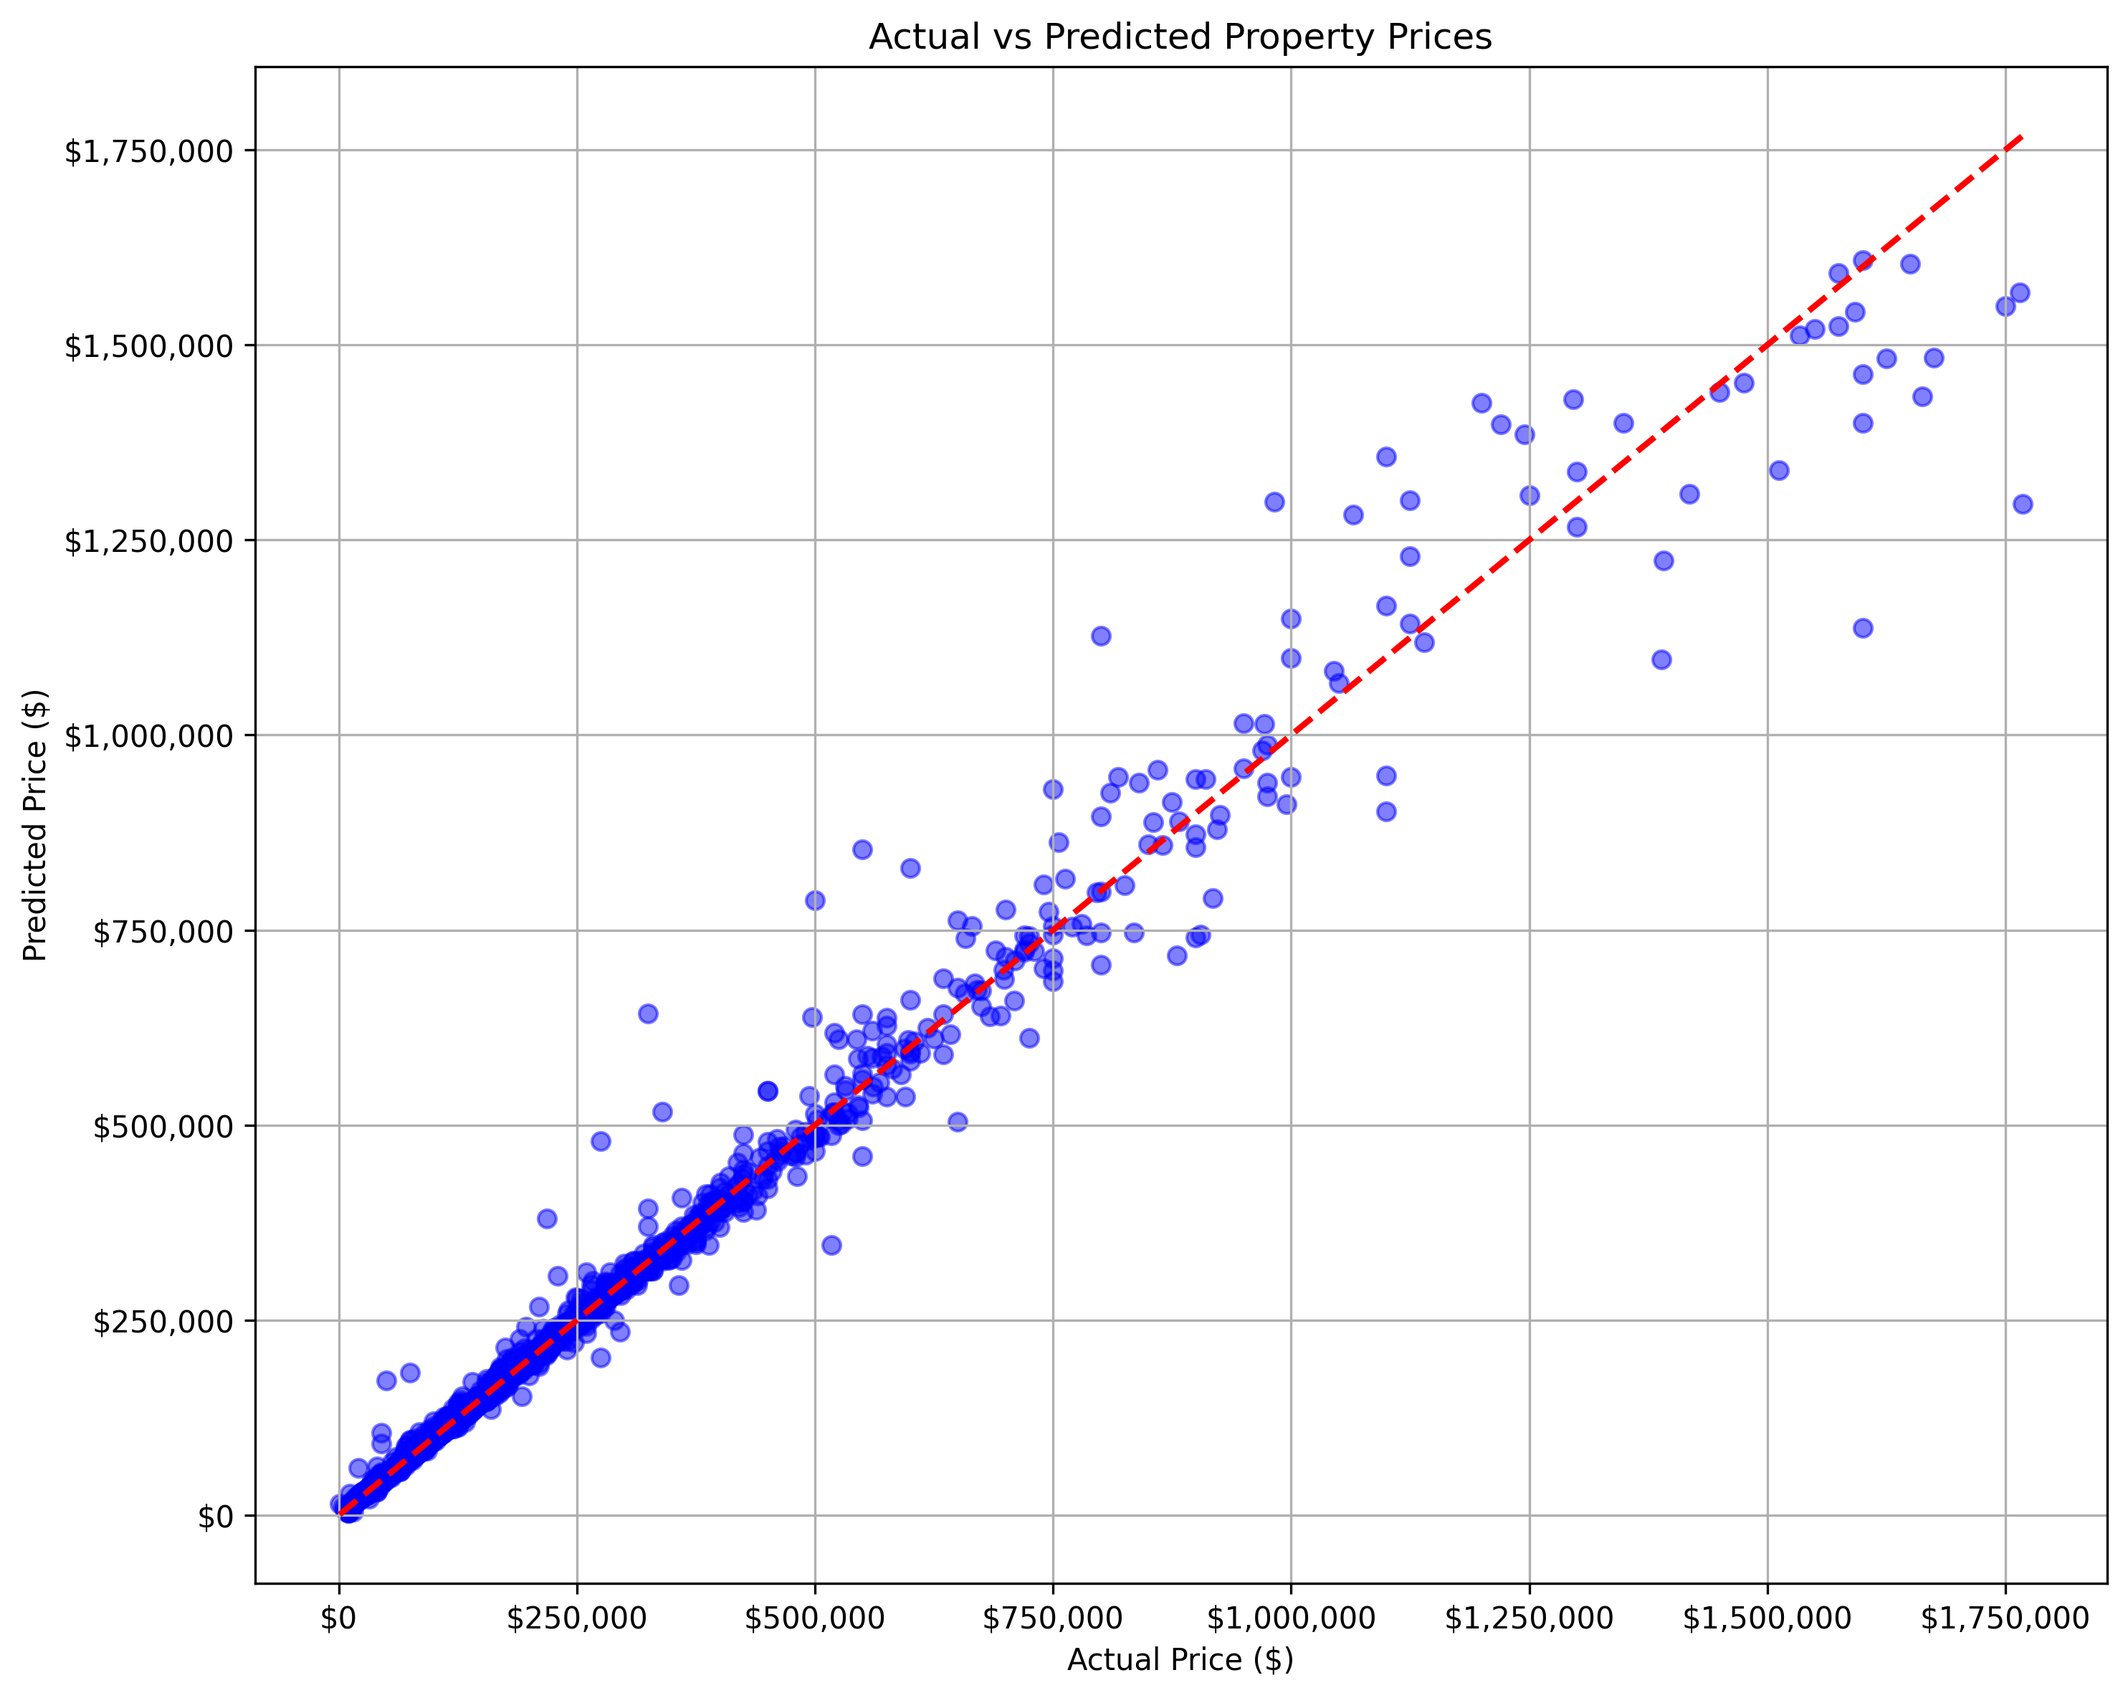
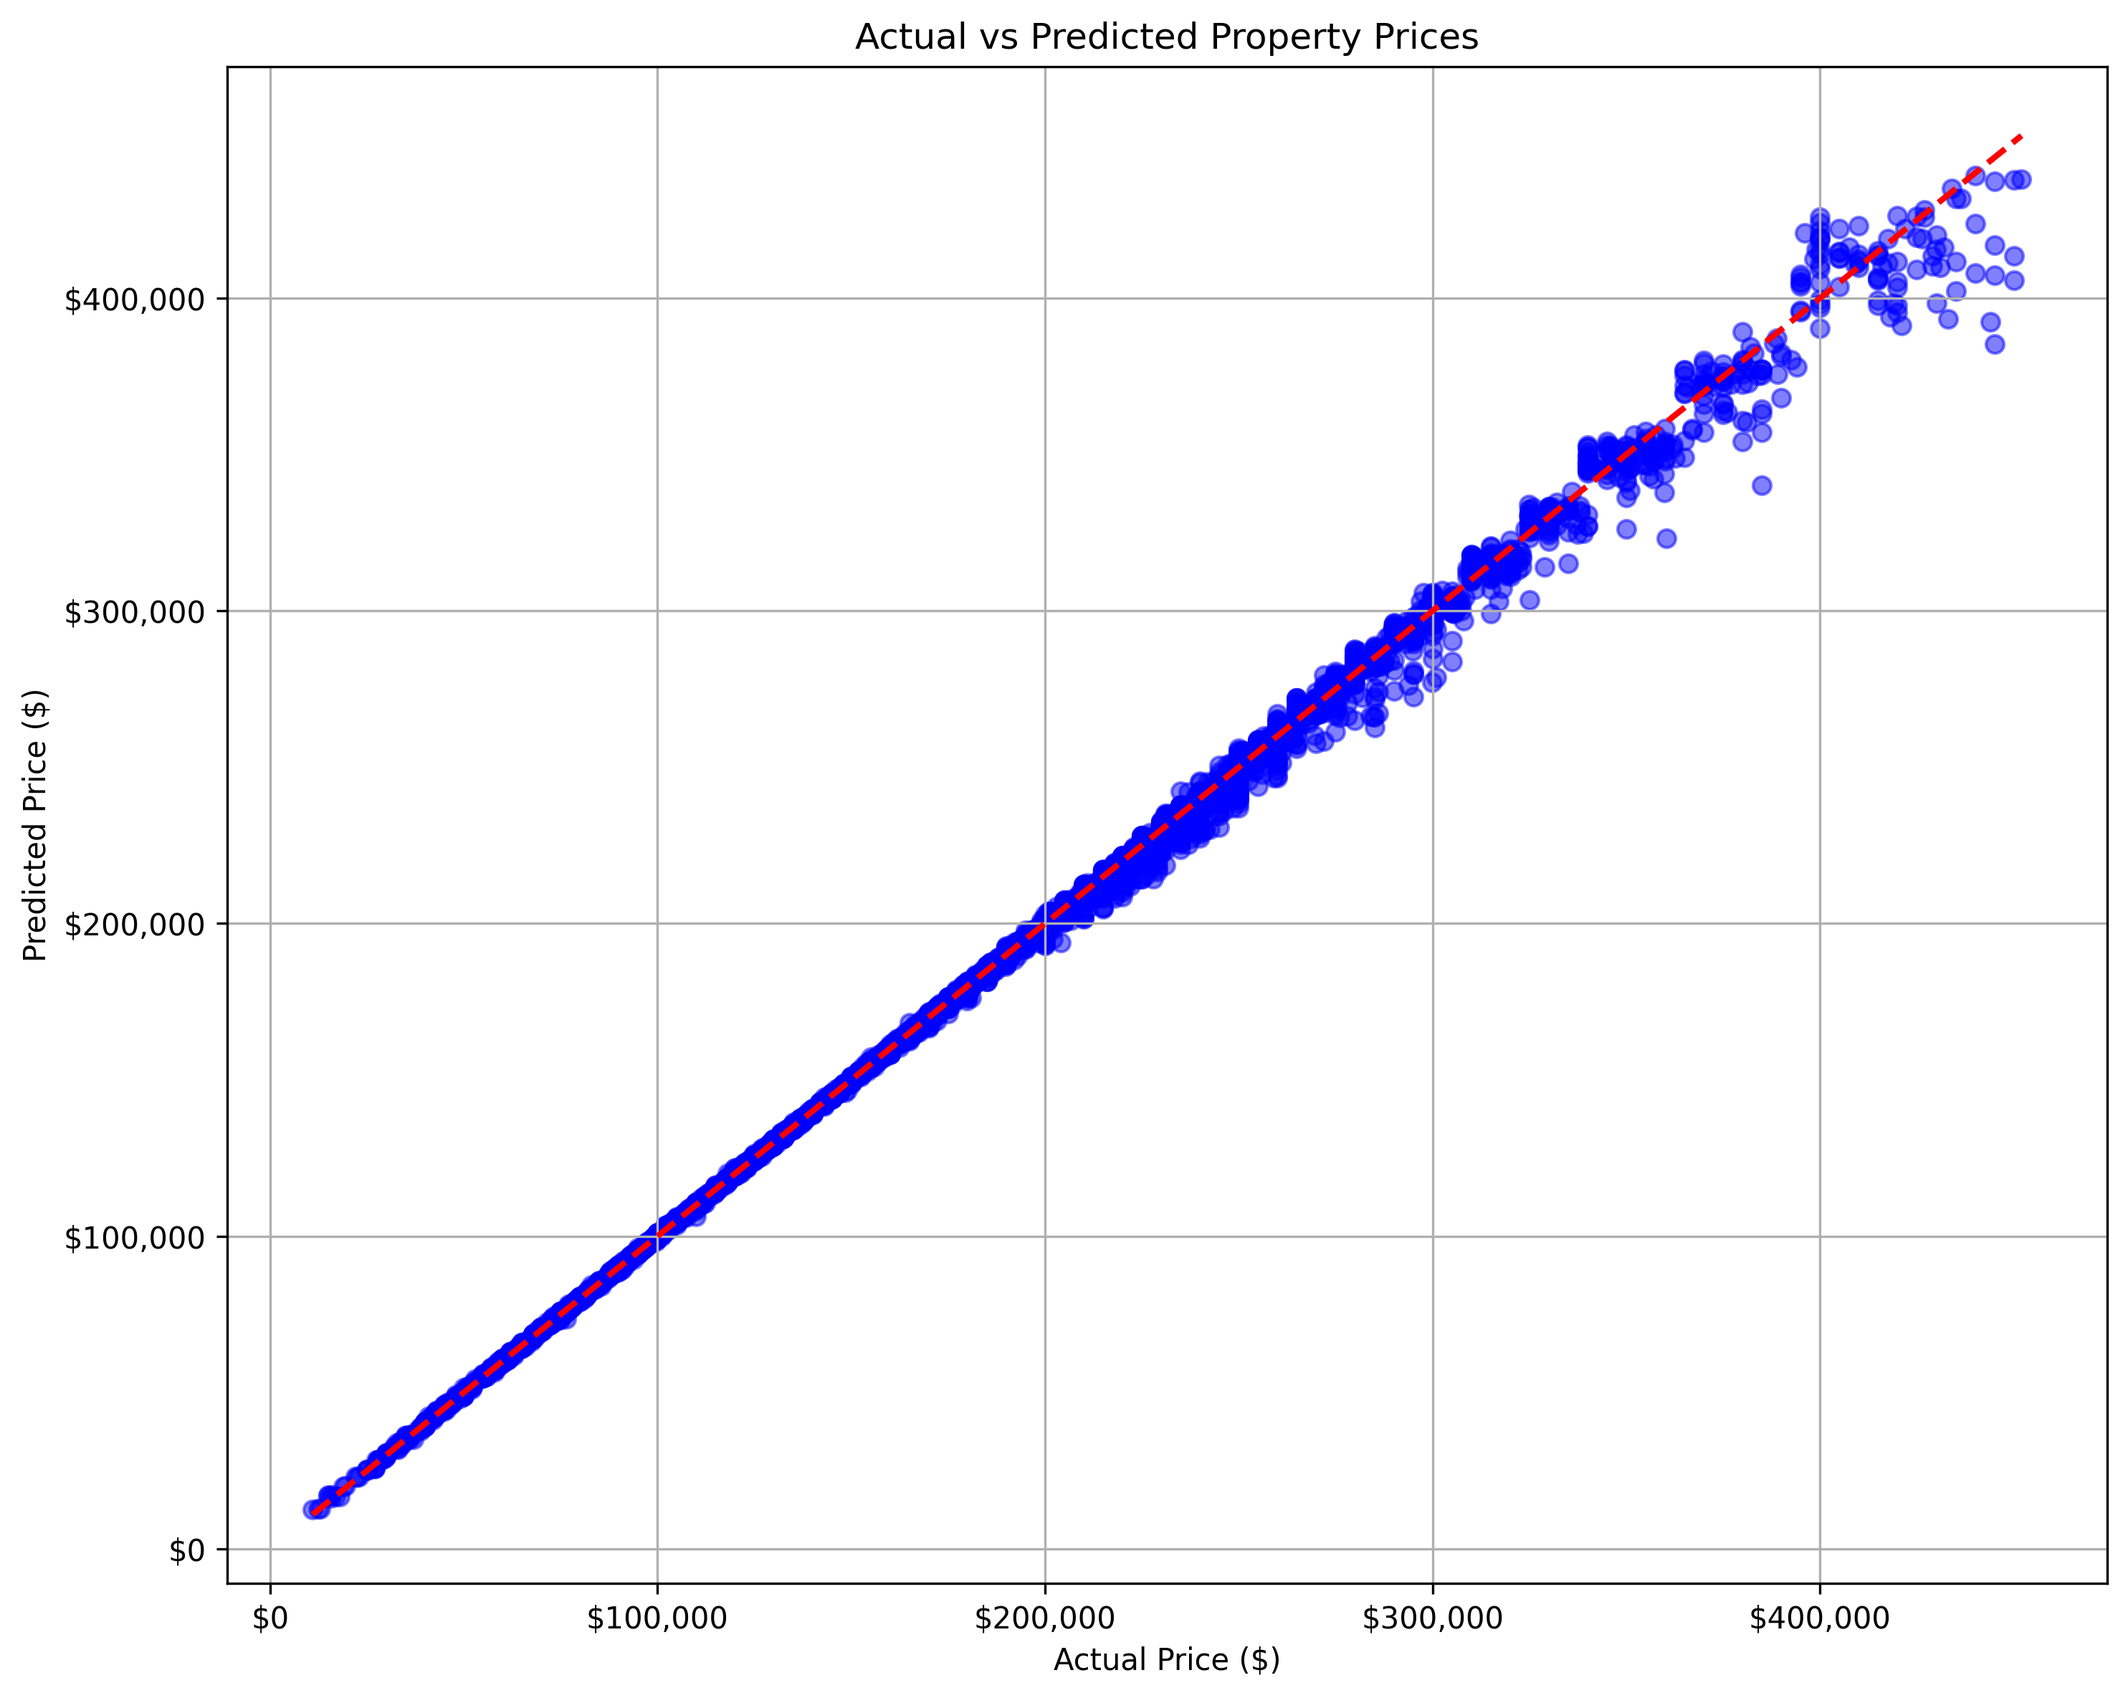
Add enhanced model with comprehensive cleaning, time-based features, and all years of data (2002-2022)

diff --git a/enhanced_property_model.py b/enhanced_property_model.py
@@ -1,0 +1,333 @@
+import pandas as pd
+import numpy as np
+from datetime import datetime
+from sklearn.model_selection import train_test_split, cross_val_score, TimeSeriesSplit
+from sklearn.ensemble import RandomForestRegressor, GradientBoostingRegressor
+from sklearn.linear_model import ElasticNet
+import xgboost as xgb
+from sklearn.metrics import mean_squared_error, r2_score, mean_absolute_error, explained_variance_score
+from sklearn.preprocessing import StandardScaler, RobustScaler, FunctionTransformer
+from sklearn.pipeline import Pipeline
+from sklearn.compose import ColumnTransformer
+from sklearn.feature_selection import SelectFromModel
+from sklearn.impute import SimpleImputer
+import matplotlib.pyplot as plt
+import seaborn as sns
+import warnings
+import joblib
+import os
+import shap
+from lime import lime_tabular
+warnings.filterwarnings('ignore')
+
+# Set random seed for reproducibility
+np.random.seed(42)
+
+def standardize_column_names(df):
+    """Standardize column names across different years."""
+    column_mapping = {
+        'FinishedSqft': 'Fin_sqft',
+        'Rooms': 'Nr_of_rms',
+        'taxkey': 'Taxkey',
+        'nbhd': 'Nbhd',
+        'PropertyID': 'PropertyID'  # Keep this for reference
+    }
+    return df.rename(columns=column_mapping)
+
+def load_and_combine_data():
+    """Load and combine data from all years."""
+    print("Loading historical data (2002-2018)...")
+    df_historical = pd.read_csv('data/2002-2018-property-sales-data.csv')
+    
+    # Load and combine recent years
+    recent_years = range(2019, 2023)
+    dfs = [df_historical]
+    
+    for year in recent_years:
+        print(f"Loading {year} data...")
+        df_year = pd.read_csv(f'data/{year}-property-sales-data.csv')
+        df_year = standardize_column_names(df_year)
+        dfs.append(df_year)
+    
+    # Combine all data
+    df_combined = pd.concat(dfs, ignore_index=True)
+    
+    # Convert sale_date to datetime with flexible parsing
+    print("Converting sale dates...")
+    df_combined['Sale_date'] = pd.to_datetime(df_combined['Sale_date'], format='mixed')
+    
+    return df_combined
+
+def engineer_features(df):
+    """Create enhanced features including time-based ones."""
+    df = df.copy()
+    current_year = datetime.now().year
+    
+    # Basic features
+    df['Property_Age'] = current_year - df['Year_Built']
+    df['Total_Bathrooms'] = df['Fbath'] + df['Hbath']
+    
+    # Time-based features
+    df['Sale_Year'] = df['Sale_date'].dt.year
+    df['Sale_Month'] = df['Sale_date'].dt.month
+    df['Sale_Quarter'] = df['Sale_date'].dt.quarter
+    df['Days_Since_2002'] = (df['Sale_date'] - pd.Timestamp('2002-01-01')).dt.days
+    
+    # Market trend features
+    df['Price_per_sqft'] = df['Sale_price'] / df['Fin_sqft']
+    df['Log_Sqft'] = np.log1p(df['Fin_sqft'])
+    df['Log_Lotsize'] = np.log1p(df['Lotsize'])
+    df['Log_Price'] = np.log1p(df['Sale_price'])
+    
+    # Property features
+    df['Bathrooms_per_Bedroom'] = df['Total_Bathrooms'] / df['Bdrms'].replace(0, 1)
+    df['Sqft_per_Bedroom'] = df['Fin_sqft'] / df['Bdrms'].replace(0, 1)
+    df['Lot_to_Sqft_Ratio'] = df['Lotsize'] / df['Fin_sqft']
+    df['Age_Squared'] = df['Property_Age'] ** 2
+    df['Total_Rooms'] = df['Bdrms'] + df['Total_Bathrooms']
+    df['Room_Density'] = df['Total_Rooms'] / df['Fin_sqft']
+    df['Sqft_per_Story'] = df['Fin_sqft'] / df['Stories'].replace(0, 1)
+    df['Bathroom_Ratio'] = df['Total_Bathrooms'] / df['Total_Rooms'].replace(0, 1)
+    
+    return df
+
+def create_feature_engineering_pipeline():
+    """Create a pipeline for feature engineering."""
+    return Pipeline([
+        ('feature_engineering', FunctionTransformer(engineer_features))
+    ])
+
+def create_preprocessing_pipeline():
+    """Create a preprocessing pipeline with imputation and scaling."""
+    numeric_features = [
+        'Fin_sqft', 'Lotsize', 'Property_Age', 'Total_Bathrooms', 'Bdrms', 'Stories',
+        'Price_per_sqft', 'Bathrooms_per_Bedroom', 'Sqft_per_Bedroom', 'Lot_to_Sqft_Ratio',
+        'Age_Squared', 'Log_Sqft', 'Log_Lotsize', 'Total_Rooms', 'Room_Density',
+        'Sqft_per_Story', 'Bathroom_Ratio', 'Days_Since_2002', 'Sale_Year', 'Sale_Month',
+        'Sale_Quarter', 'Log_Price'
+    ]
+    
+    numeric_transformer = Pipeline(steps=[
+        ('imputer', SimpleImputer(strategy='median')),
+        ('scaler', RobustScaler())
+    ])
+    
+    preprocessor = ColumnTransformer(
+        transformers=[
+            ('num', numeric_transformer, numeric_features)
+        ])
+    
+    return preprocessor, numeric_features
+
+def create_model_pipeline():
+    """Create the complete model pipeline."""
+    preprocessor, numeric_features = create_preprocessing_pipeline()
+    
+    model = xgb.XGBRegressor(
+        n_estimators=200,
+        learning_rate=0.05,
+        max_depth=6,
+        min_child_weight=1,
+        subsample=0.8,
+        colsample_bytree=0.8,
+        gamma=0.1,
+        reg_alpha=0.1,
+        reg_lambda=1,
+        random_state=42
+    )
+    
+    return Pipeline([
+        ('preprocessor', preprocessor),
+        ('feature_selector', SelectFromModel(model, threshold='median')),
+        ('model', model)
+    ]), numeric_features
+
+def clean_data(df):
+    """Comprehensive data cleaning function."""
+    df = df.copy()
+    
+    # 1. Ensure numeric columns are numeric
+    print("Converting columns to numeric...")
+    numeric_columns = ['Fin_sqft', 'Lotsize', 'Year_Built', 'Fbath', 'Hbath', 'Bdrms', 'Stories', 'Sale_price']
+    for col in numeric_columns:
+        if col in df.columns:
+            df[col] = pd.to_numeric(df[col], errors='coerce')
+            # Replace negative values with NaN
+            df[col] = df[col].replace([-np.inf, np.inf], np.nan)
+            df[col] = df[col].mask(df[col] < 0, np.nan)
+    
+    # 2. Remove invalid property types
+    print("Removing invalid property types...")
+    valid_property_types = ['Single Family', 'Condo', 'Multi-Family', 'Residential']
+    if 'PropType' in df.columns:
+        df = df[df['PropType'].isin(valid_property_types)]
+    
+    # 3. Handle outliers
+    print("Handling outliers...")
+    # Remove properties with unrealistic sizes
+    df = df[
+        (df['Fin_sqft'] > 100) &  # Minimum reasonable size
+        (df['Fin_sqft'] < 10000) &  # Maximum reasonable size
+        (df['Lotsize'] > 100) &  # Minimum reasonable lot size
+        (df['Lotsize'] < 100000) &  # Maximum reasonable lot size
+        (df['Sale_price'] > 10000) &  # Minimum reasonable price
+        (df['Sale_price'] < df['Sale_price'].quantile(0.99))  # Remove top 1% prices
+    ]
+    
+    # 4. Handle year built
+    print("Cleaning year built data...")
+    if 'Year_Built' in df.columns:
+        # Remove unrealistic years
+        current_year = datetime.now().year
+        df = df[
+            (df['Year_Built'] > 1800) &  # Reasonable minimum year
+            (df['Year_Built'] <= current_year)  # Can't be built in the future
+        ]
+    
+    # 5. Handle bathrooms and bedrooms
+    print("Cleaning bathroom and bedroom data...")
+    if 'Bdrms' in df.columns:
+        df = df[df['Bdrms'] <= 10]  # Maximum reasonable number of bedrooms
+    if 'Fbath' in df.columns and 'Hbath' in df.columns:
+        df = df[(df['Fbath'] + df['Hbath']) <= 10]  # Maximum reasonable number of bathrooms
+    
+    # 6. Handle stories
+    print("Cleaning stories data...")
+    if 'Stories' in df.columns:
+        df = df[df['Stories'] <= 5]  # Maximum reasonable number of stories
+    
+    # 7. Remove duplicate sales
+    print("Removing duplicate sales...")
+    if 'Taxkey' in df.columns and 'Sale_date' in df.columns:
+        df = df.drop_duplicates(subset=['Taxkey', 'Sale_date'], keep='first')
+    
+    print(f"Data cleaning complete. Remaining rows: {len(df)}")
+    return df
+
+def main():
+    print("Loading and preprocessing data...")
+    # Load and combine all data
+    df = load_and_combine_data()
+    
+    # Apply comprehensive cleaning
+    df = clean_data(df)
+    
+    # Create feature engineering pipeline
+    feature_engineering_pipeline = create_feature_engineering_pipeline()
+    df = feature_engineering_pipeline.fit_transform(df)
+    
+    # Create model pipeline
+    model_pipeline, numeric_features = create_model_pipeline()
+    
+    # Prepare data
+    X = df[numeric_features]
+    y = df['Sale_price']
+    
+    # Split data chronologically
+    train_size = int(len(df) * 0.8)
+    X_train = X[:train_size]
+    X_test = X[train_size:]
+    y_train = y[:train_size]
+    y_test = y[train_size:]
+    
+    print("Training model with time series cross-validation...")
+    # Perform time series cross-validation
+    tscv = TimeSeriesSplit(n_splits=5)
+    cv_scores = cross_val_score(model_pipeline, X_train, y_train, cv=tscv, scoring='r2')
+    print(f"Time series cross-validation R² scores: {cv_scores}")
+    print(f"Mean CV R²: {cv_scores.mean():.4f} (±{cv_scores.std():.4f})")
+    
+    # Train final model
+    model_pipeline.fit(X_train, y_train)
+    
+    # Make predictions
+    y_pred = model_pipeline.predict(X_test)
+    
+    # Calculate metrics
+    metrics = {
+        'R² Score': r2_score(y_test, y_pred),
+        'Explained Variance': explained_variance_score(y_test, y_pred),
+        'RMSE': np.sqrt(mean_squared_error(y_test, y_pred)),
+        'MAE': mean_absolute_error(y_test, y_pred),
+        'Mean Absolute Percentage Error': np.mean(np.abs((y_test - y_pred) / y_test)) * 100
+    }
+    
+    print("\nModel Performance Metrics:")
+    for metric, value in metrics.items():
+        print(f"{metric}: {value:.4f}")
+    
+    # Save model components
+    if not os.path.exists('models'):
+        os.makedirs('models')
+    
+    joblib.dump(model_pipeline, 'models/enhanced_property_model.joblib')
+    print("\nModel components saved successfully!")
+    
+    # Generate visualizations
+    generate_visualizations(X_test, y_test, y_pred, model_pipeline, df)
+
+def generate_visualizations(X_test, y_test, y_pred, model_pipeline, df):
+    """Generate and save enhanced model performance visualizations."""
+    if not os.path.exists('plots'):
+        os.makedirs('plots')
+    
+    plt.style.use('default')
+    
+    # 1. Actual vs Predicted
+    plt.figure(figsize=(10, 8))
+    plt.scatter(y_test, y_pred, alpha=0.5, color='blue')
+    plt.plot([y_test.min(), y_test.max()], [y_test.min(), y_test.max()], 'r--', lw=2)
+    plt.xlabel('Actual Price ($)')
+    plt.ylabel('Predicted Price ($)')
+    plt.title('Actual vs Predicted Property Prices')
+    plt.grid(True)
+    plt.gca().xaxis.set_major_formatter(plt.FuncFormatter(lambda x, p: f'${x:,.0f}'))
+    plt.gca().yaxis.set_major_formatter(plt.FuncFormatter(lambda x, p: f'${x:,.0f}'))
+    plt.tight_layout()
+    plt.savefig('plots/actual_vs_predicted.png', dpi=300, bbox_inches='tight')
+    plt.close()
+    
+    # 2. Feature Importance
+    plt.figure(figsize=(12, 8))
+    feature_importance = pd.DataFrame({
+        'Feature': model_pipeline.named_steps['feature_selector'].get_feature_names_out(),
+        'Importance': model_pipeline.named_steps['model'].feature_importances_
+    })
+    feature_importance = feature_importance.sort_values('Importance', ascending=False)
+    sns.barplot(x='Importance', y='Feature', data=feature_importance)
+    plt.title('Feature Importances')
+    plt.tight_layout()
+    plt.savefig('plots/feature_importance.png', dpi=300, bbox_inches='tight')
+    plt.close()
+    
+    # 3. Price Trends Over Time
+    plt.figure(figsize=(12, 6))
+    df['Sale_Year'] = pd.to_datetime(df['Sale_date']).dt.year
+    yearly_avg = df.groupby('Sale_Year')['Sale_price'].mean()
+    plt.plot(yearly_avg.index, yearly_avg.values, marker='o')
+    plt.title('Average Property Prices Over Time')
+    plt.xlabel('Year')
+    plt.ylabel('Average Price ($)')
+    plt.grid(True)
+    plt.gca().yaxis.set_major_formatter(plt.FuncFormatter(lambda x, p: f'${x:,.0f}'))
+    plt.tight_layout()
+    plt.savefig('plots/price_trends.png', dpi=300, bbox_inches='tight')
+    plt.close()
+    
+    # 4. Residuals Plot
+    plt.figure(figsize=(10, 6))
+    residuals = y_test - y_pred
+    plt.scatter(y_pred, residuals, alpha=0.5)
+    plt.axhline(y=0, color='r', linestyle='--')
+    plt.xlabel('Predicted Price ($)')
+    plt.ylabel('Residuals ($)')
+    plt.title('Residuals vs Predicted Values')
+    plt.grid(True)
+    plt.gca().xaxis.set_major_formatter(plt.FuncFormatter(lambda x, p: f'${x:,.0f}'))
+    plt.gca().yaxis.set_major_formatter(plt.FuncFormatter(lambda x, p: f'${x:,.0f}'))
+    plt.tight_layout()
+    plt.savefig('plots/residuals.png', dpi=300, bbox_inches='tight')
+    plt.close()
+
+if __name__ == "__main__":
+    main() 
